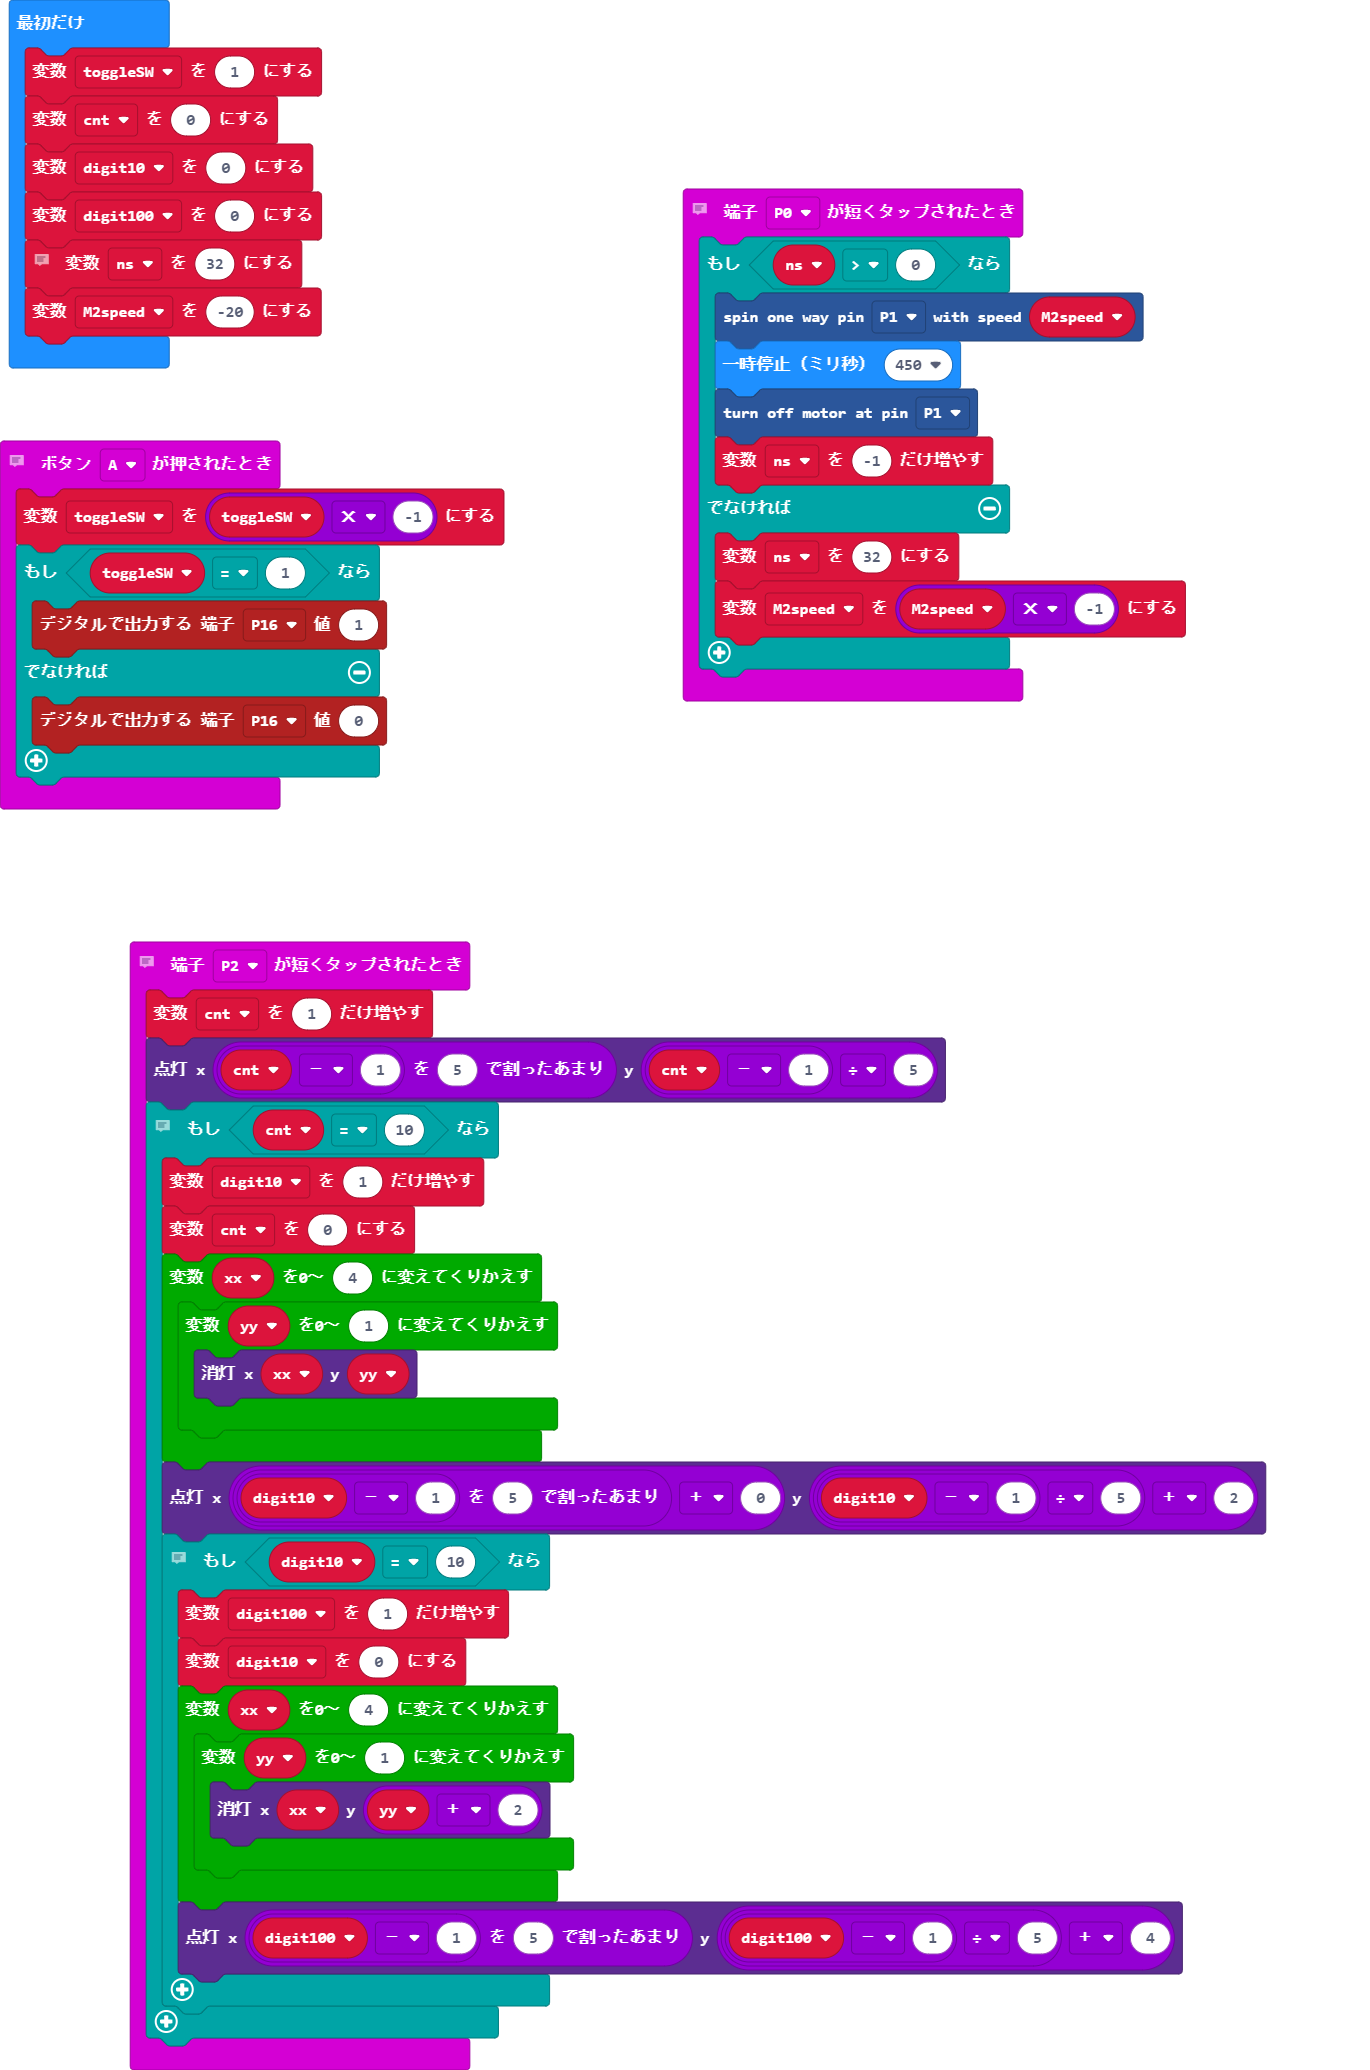
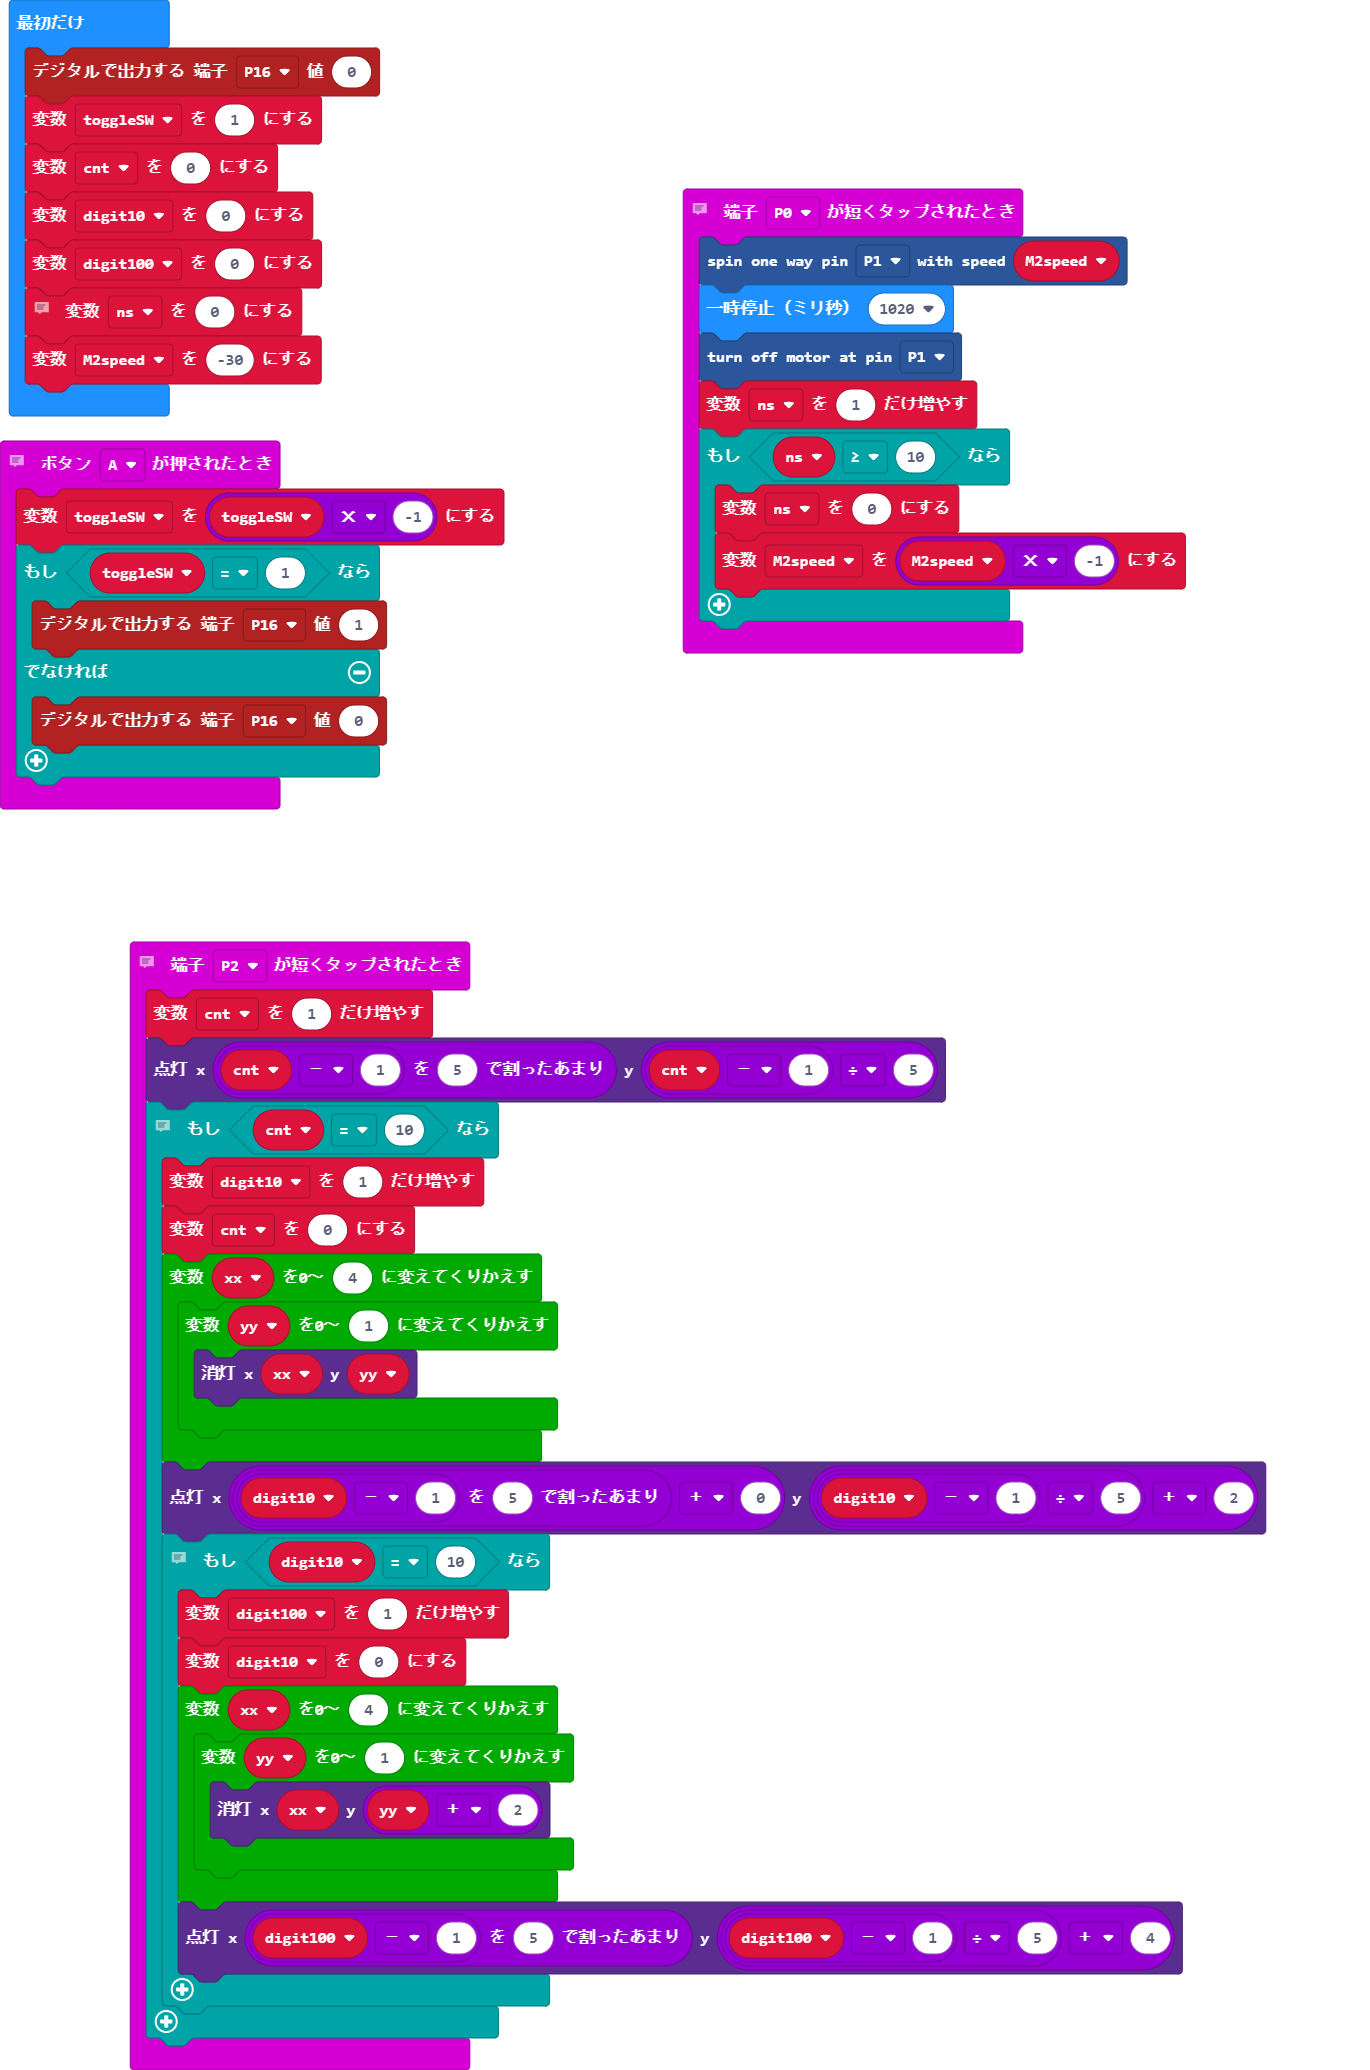
Modified sub-mortor control

Changed region(s): [[0.4905, 0.0928, 0.8891, 0.3401], [0.0, 0.0, 0.2759, 0.2164]]

diff --git a/main.ts b/main.ts
@@ -1,12 +1,11 @@
 // モーター２(巻き取り位置送り）制御
 input.onPinPressed(TouchPin.P0, function () {
-    if (ns > 0) {
-        ContinuousServo.spin_one_way_with_speed(AnalogPin.P1, M2speed)
-        basic.pause(450)
-        ContinuousServo.turn_off_motor(DigitalPin.P1)
-        ns += -1
-    } else {
-        ns = 32
+    ContinuousServo.spin_one_way_with_speed(AnalogPin.P1, M2speed)
+    basic.pause(1020)
+    ContinuousServo.turn_off_motor(DigitalPin.P1)
+    ns += 1
+    if (ns >= 10) {
+        ns = 0
         M2speed = M2speed * -1
     }
 })
@@ -53,10 +52,11 @@ let digit100 = 0
 let digit10 = 0
 let cnt = 0
 let toggleSW = 0
+pins.digitalWritePin(DigitalPin.P16, 0)
 toggleSW = 1
 cnt = 0
 digit10 = 0
 digit100 = 0
 // 巻き取り位置移動ピッチ0.2mm/半回転x32=6.4mm
-ns = 32
-M2speed = -20
+ns = 0
+M2speed = -30
